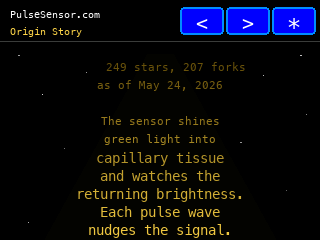
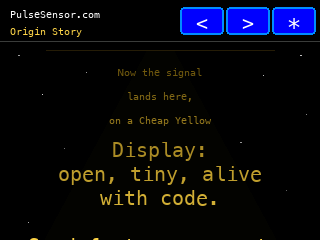
Add Origin Story perspective crawl 20260524-093448-EDT

diff --git a/tools/render_app3_origin_crawl_mock.py b/tools/render_app3_origin_crawl_mock.py
@@ -20,8 +20,8 @@ try:
     FONT_1 = ImageFont.truetype("/System/Library/Fonts/Menlo.ttc", 10)
     FONT_2 = ImageFont.truetype("/System/Library/Fonts/Menlo.ttc", 20)
     FONT_3 = ImageFont.truetype("/System/Library/Fonts/Menlo.ttc", 30)
-    FONT_CRAWL = ImageFont.truetype("/System/Library/Fonts/Menlo.ttc", 14)
-    FONT_CRAWL_SMALL = ImageFont.truetype("/System/Library/Fonts/Menlo.ttc", 11)
+    FONT_CRAWL = ImageFont.truetype("/System/Library/Fonts/Menlo.ttc", 20)
+    FONT_CRAWL_SMALL = ImageFont.truetype("/System/Library/Fonts/Menlo.ttc", 10)
 except OSError:
     FONT_1 = ImageFont.load_default()
     FONT_2 = ImageFont.load_default()
@@ -167,17 +167,20 @@ def draw_title_card(draw, width, height):
 
 
 def draw_crawl(draw, width, height, offset, frame):
-    horizon_y = 54
+    horizon_y = 50
     base_y = 230 - offset
-    line_gap = 18
+    line_gap = 24
     center_x = width // 2
     draw.polygon([(44, height), (276, height), (173, horizon_y), (147, horizon_y)], fill=(3, 3, 0))
+    draw.line((46, horizon_y, width - 46, horizon_y), fill=(42, 32, 7))
     for idx, line in enumerate(CRAWL_LINES):
         y = base_y + idx * line_gap
         if y < horizon_y - 10 or y > height + 24:
             continue
         depth = max(0.0, min(1.0, (y - horizon_y) / (height - horizon_y)))
-        font = FONT_CRAWL if depth > 0.42 else FONT_CRAWL_SMALL
+        if depth < 0.08:
+            continue
+        font = FONT_CRAWL if depth > 0.45 else FONT_CRAWL_SMALL
         color_mix = int(100 + depth * 155)
         fill = (color_mix, int(78 + depth * 136), int(8 + depth * 64))
         text_w, text_h = text_size(draw, line, font)
@@ -216,11 +219,11 @@ def render(filename, frame, offset=None, title_card=False):
 
 frames = [
     ("app3-origin-title.png", 0, None, True),
-    ("app3-origin-crawl-start.png", 1, 40, False),
-    ("app3-origin-crawl-mid.png", 2, 128, False),
-    ("app3-origin-crawl-late.png", 3, 216, False),
-    ("app3-origin-crawl-close.png", 4, 532, False),
-    ("app3-origin-crawl-thanks.png", 5, 746, False),
+    ("app3-origin-crawl-start.png", 1, 80, False),
+    ("app3-origin-crawl-mid.png", 2, 256, False),
+    ("app3-origin-crawl-late.png", 3, 432, False),
+    ("app3-origin-crawl-close.png", 4, 1050, False),
+    ("app3-origin-crawl-thanks.png", 5, 1460, False),
 ]
 
 for filename, frame, offset, title_card in frames:

diff --git a/tools/check_app_shell.py b/tools/check_app_shell.py
@@ -117,10 +117,15 @@ required_large_controls = {
     "TFT_eSprite app3CrawlSprite": "Origin Story crawl is missing an offscreen sprite",
     "ensureApp3CrawlSprite": "Origin Story crawl sprite is not managed for rotation changes",
     "app3CrawlSprite.pushSprite": "Origin Story crawl frames are not pushed from an offscreen sprite",
-    "app3CrawlSprite.setTextSize(APP3_CRAWL_TEXT_SIZE)": "Origin Story crawl does not use the enlarged text size",
+    "APP3_CRAWL_TEXT_SIZE": "Origin Story crawl does not keep the enlarged text size",
+    "app3CrawlSprite.setTextSize(textSize)": "Origin Story crawl does not apply perspective text scaling",
     "app3CrawlSprite.setColorDepth(8)": "Origin Story crawl sprite is not using lower-memory 8-bit color",
     "drawApp3OriginCrawlDirectFallback": "Origin Story crawl has no visible fallback if sprite allocation fails",
     "int baseY = crawlBottom - lineHeight - offset;": "Origin Story crawl starts below the visible area",
+    "#define APP3_CRAWL_SPEED_MS 52": "Origin Story crawl speed is not approximately 2x faster",
+    "drawApp3CrawlLinePerspective": "Origin Story crawl is missing perspective fade/shrink rendering",
+    "APP3_CRAWL_HORIZON_Y": "Origin Story crawl is missing a horizontal vanishing point",
+    "APP3_CRAWL_MIN_TEXT_SIZE": "Origin Story crawl cannot shrink toward the horizon",
 }
 for token, message in required_large_controls.items():
     if token not in source:

diff --git a/START_HERE_NEXT_CHAT.md b/START_HERE_NEXT_CHAT.md
@@ -29,7 +29,7 @@ The branch adds an app shell around the Pulse dashboard:
 - Rotation now lives in Settings only; the persistent top rotate button was removed.
 - App navigation remains persistent as a three-button previous/next/Settings nav bar, with mode-aware outlines/fills and no top-bar rotate control.
 - Display mode cycles through `M DARK`, `M LIGHT`, `C DARK`, and `C LIGHT`.
-- Firmware version is `0.4.6-origin-oshw`.
+- Firmware version is `0.4.7-origin-perspective`.
 - Firmware date shown in Settings is `2026-05-24`.
 - Guard script: `python3 tools/check_app_shell.py`.
 
@@ -48,6 +48,8 @@ The branch adds an app shell around the Pulse dashboard:
 2026-05-24 09:25:59 EDT Origin Story blank-screen fix: user reported Origin Story became a black screen. Firmware now uses an 8-bit crawl sprite to reduce memory, starts the first large text line inside the visible area immediately, and includes a direct large-text fallback renderer if sprite allocation fails. This version was built and flashed for hardware review.
 
 2026-05-24 09:30:51 EDT Origin Story provenance pass: added Pulse Sensor Amped OSHWA certification details (`US000075`, certified August 30, 2017), the `WorldFamousElectronics/PulseSensor_Amped_Arduino` GitHub repo, and a dated repo-love line showing `249` stars and `207` forks as of May 24, 2026. Firmware version is now `0.4.6-origin-oshw`.
+
+2026-05-24 09:34:48 EDT Origin Story perspective-speed pass: crawl speed was doubled and the renderer now fades/shrinks text toward a horizontal vanishing line at the top of the content area. This build was compiled and flashed to the connected CYD for review.
 
 2026-05-24 hardware note: the app-shell firmware was built and flashed to `/dev/cu.usbserial-3120` on the connected ESP32-D0WD-V3 CYD, MAC `f4:65:0b:a9:f2:e8`. Touch ergonomics fixes changed compact toolbar routing to split adjacent app-nav/rotate hit targets at their midpoints, enlarged the visible app-nav and rotate controls from 22x22 to 44x28, converted Settings to a scrollable large-text row list with bigger row-local touch controls, widened Settings bottom scroll buttons to split the full bottom bar, changed Settings rows to alternating yellow/green Pulse dashboard backgrounds with black text, and redesigned App 1 metric tiles to use the same yellow/green high-contrast language.
 

diff --git a/CODEX_HANDOFF.md b/CODEX_HANDOFF.md
@@ -37,7 +37,7 @@ The current branch wraps the one-screen Pulse dashboard in a small app shell:
 - Volume is Settings-only and no longer appears in the top toolbar.
 - Rotation is Settings-only and no longer appears as a persistent top-toolbar button.
 - App navigation remains persistent as a three-button previous/next/Settings nav bar, with mode-aware outlines/fills and no top-toolbar rotate button.
-- Firmware version for this branch: `0.4.6-origin-oshw`.
+- Firmware version for this branch: `0.4.7-origin-perspective`.
 - Firmware date shown in Settings: `2026-05-24`.
 - Guard script: `python3 tools/check_app_shell.py`.
 
@@ -56,6 +56,8 @@ The current branch wraps the one-screen Pulse dashboard in a small app shell:
 2026-05-24 09:25:59 EDT Origin Story blank-screen fix: user reported the Origin Story page became totally black. Likely causes were the first large line starting below the visible content area and/or full-size sprite allocation failure. Firmware now uses an 8-bit sprite, starts text visibly on the first frame, and falls back to direct large-text rendering if sprite allocation fails.
 
 2026-05-24 09:30:51 EDT Origin Story provenance pass: the crawl now includes Pulse Sensor Amped OSHWA registration `US000075`, certification date August 30, 2017, the `WorldFamousElectronics/PulseSensor_Amped_Arduino` GitHub repo, and a dated repo-love note showing `249` stars and `207` forks as of May 24, 2026.
+
+2026-05-24 09:34:48 EDT Origin Story perspective-speed pass: the crawl speed is doubled with `APP3_CRAWL_SPEED_MS 52`, and crawl lines now use a perspective renderer that fades and shrinks them toward a horizontal origin line. This build was compiled and flashed to the connected CYD for review.
 
 2026-05-24 continuation: the compact toolbar hit testing was tuned for real CYD touch ergonomics. App nav and rotate still look grouped, but their padded tap regions are now split at the midpoint between adjacent button centers, preventing the previous overlap where taps near rotate could be claimed by Settings or taps near nav boundaries could choose the earlier button. The same midpoint approach is used for the Settings color swatches.
 

diff --git a/CHANGELOG.md b/CHANGELOG.md
@@ -1,6 +1,7 @@
 # CYD App Launcher — Student Version — Changelog
 
 ## Unreleased
+- 2026-05-24 09:34:48 EDT Origin Story hardware trial: doubled the crawl speed, added a horizontal vanishing line, and made crawl rows shrink to 1x text and fade into the black background as they approach the top horizon; firmware version is `0.4.7-origin-perspective`.
 - 2026-05-24 09:30:51 EDT Origin Story provenance pass: added OSHWA certification details for Pulse Sensor Amped (`US000075`, certified August 30, 2017), the `WorldFamousElectronics/PulseSensor_Amped_Arduino` GitHub repo, and current repo-love stats (`249` stars, `207` forks as of May 24, 2026); firmware version is `0.4.6-origin-oshw`.
 - 2026-05-24 09:25:59 EDT Origin Story blank-screen fix: changed the crawl sprite to lower-memory 8-bit color, made the first crawl line visible immediately, and added a direct large-text fallback renderer if sprite allocation fails; firmware version is `0.4.5-origin-visible`.
 - 2026-05-24 09:22:21 EDT Origin Story hardware pass: enlarged the scrolling crawl text to 2x, reflowed the copy into CYD-width lines, moved the animated crawl into an offscreen `TFT_eSprite` to reduce direct clear/redraw flicker, and bumped firmware version to `0.4.4-origin-readable`.
